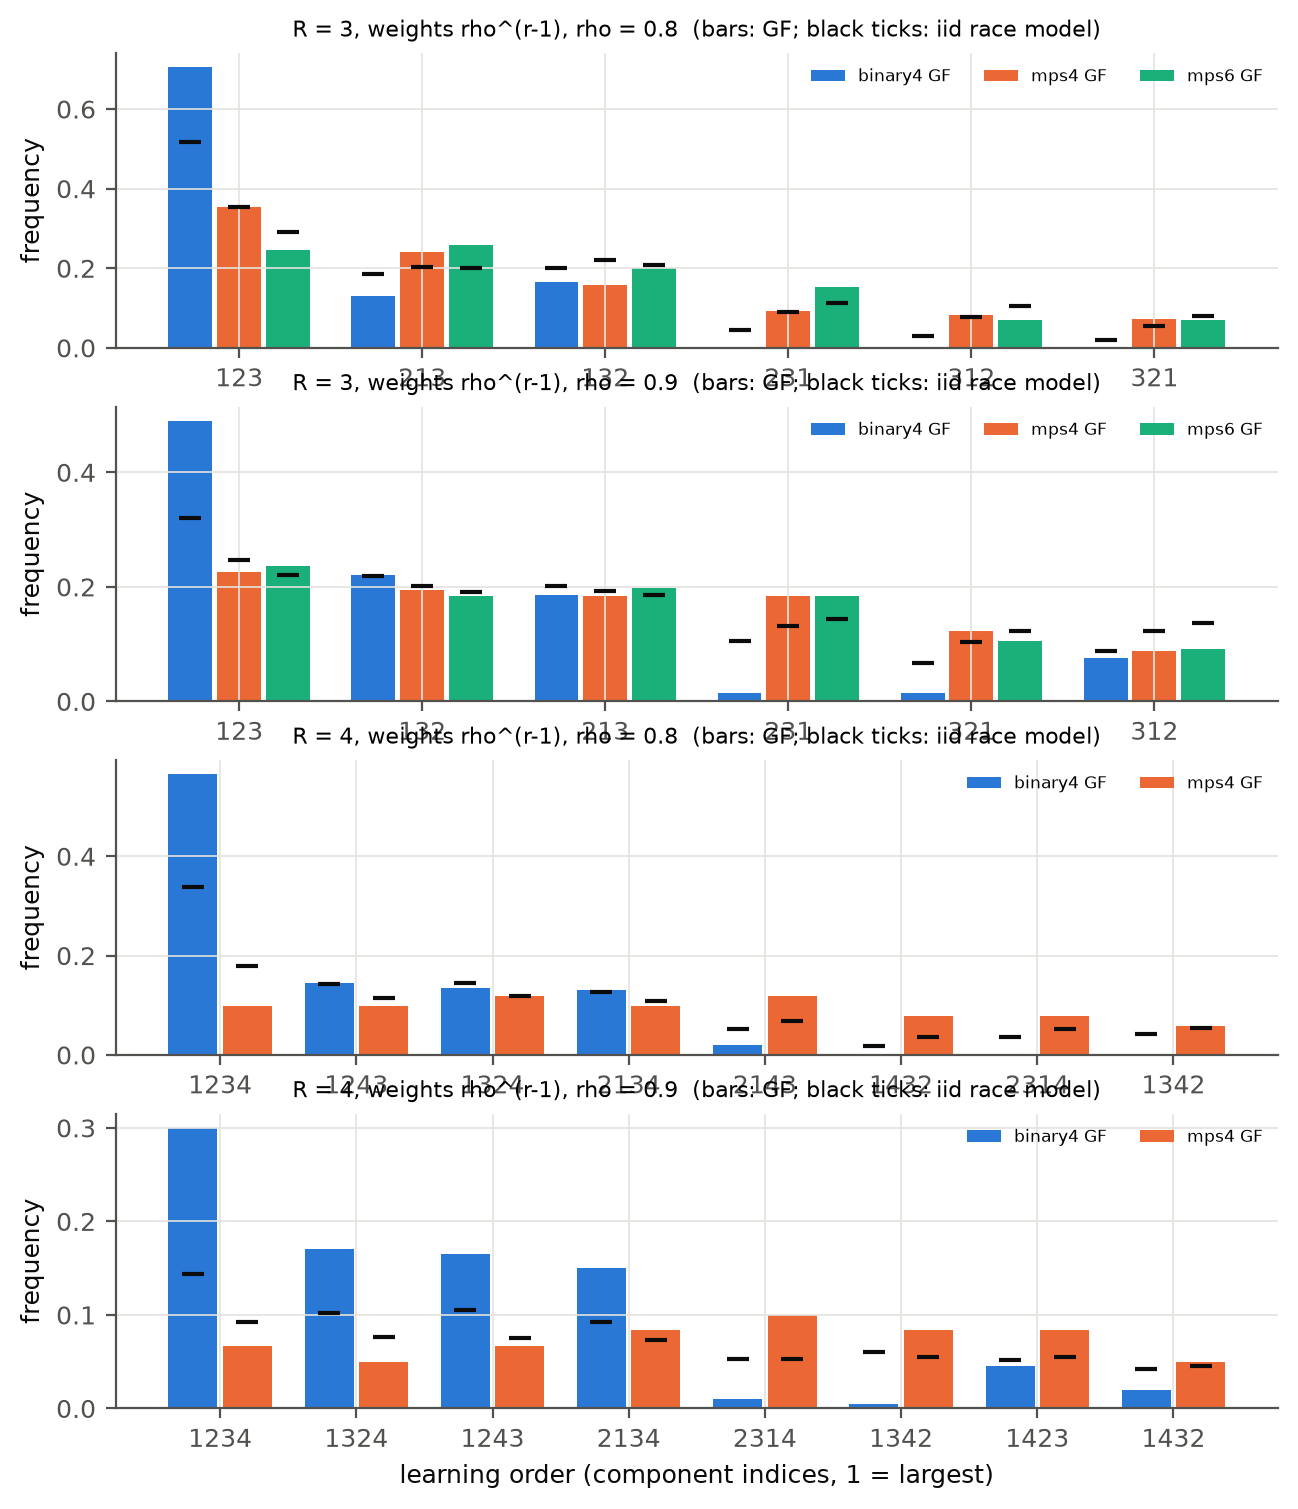
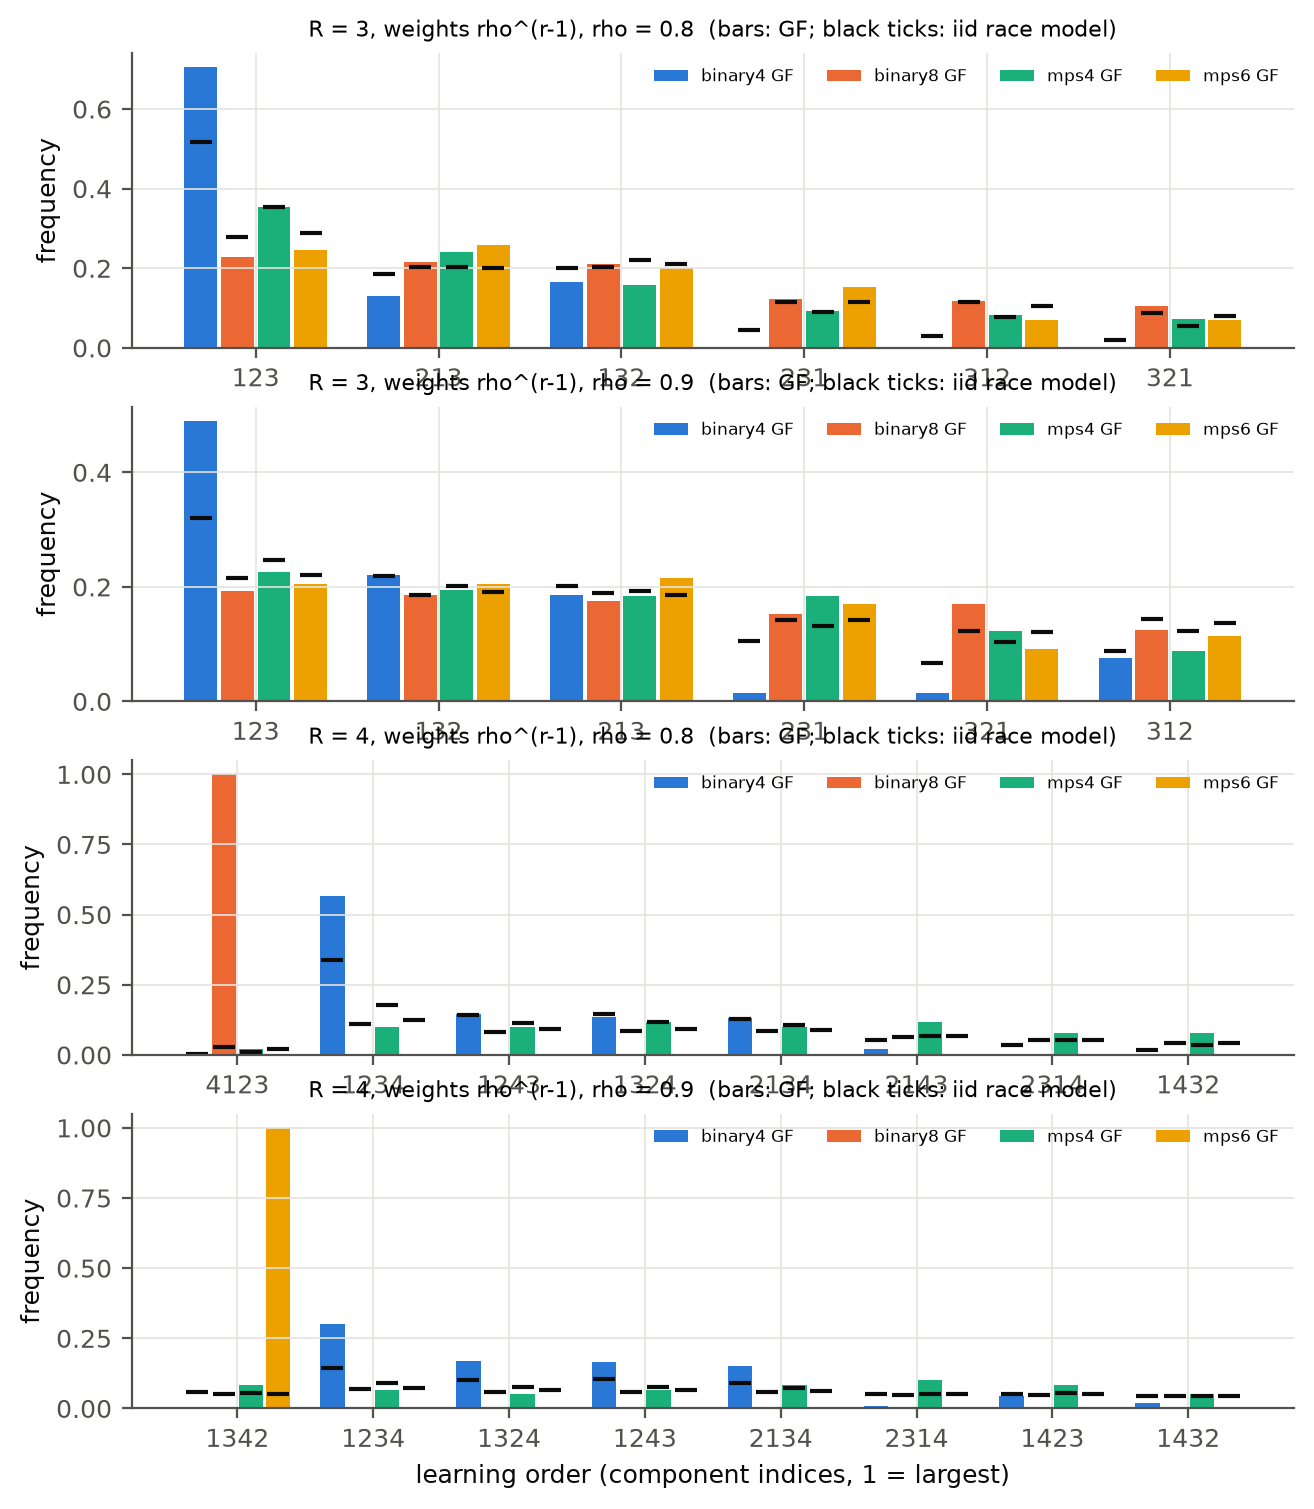
order: step 4 results (R = 3 order statistics vs iid race; R = 4 stalls)

diff --git a/notes/order.md b/notes/order.md
@@ -267,6 +267,53 @@ carry), 500 seeds per point (`sweep.py configs/chi_scan.yaml`, `analyze_chi.py`,
 - So the answer to "does larger chi restore greedy order?" is yes in the limit, as for over-parameterized
   CP (Ge et al. 2021), but slowly: the spread of log escape times shrinks only like chi^-1/2.
 
+### 7.6 Step 4: three and four components (complete)
+
+Odeco teachers with weights (1, rho, rho^2[, rho^3]), rho = 0.8, 0.9, d = 4, chi = 4 (standard caps:
+every bond has dimension 4), 200 seeds; sigma = 0.05 (binary4), 0.1 (MPS4), 0.2 (MPS6), 0.25 (binary8)
+because at smaller sigma the dormant components of K >= 5 trees fall below the float64 floor. GF with
+LSODA + exact Hessian (rtol 1e-9, atol 1e-14), exact event location for every first crossing a_r = 1/2,
+stopped at L < 1e-8 L(0), at t = 1e9, or when some overlap decays below 1e-25 ("stalled": its route has
+died; any later escape would be seeded by roundoff). Per seed also the LO blow-up time tau_r of every
+component. `multi.py configs/multi.yaml` (raw: multi2), `analyze_multi.py multi2`,
+`results/multi2_summary.csv`, `results/multi2_perms.csv`, `results/multi2_orders.png`. Runs with a
+stalled component or a dormant overlap below 1e-14 before its event are excluded from the order
+statistics and counted. Model = "iid race": each component's blow-up time an independent draw from the
+pooled tau's, order = ranking of tau_r / s_r (a Thurstone-type random-utility model).
+
+**R = 3** (n used / 200; P(greedy order) GF vs iid race model; mean Kendall tau with the greedy order GF
+vs model; per-seed agreement of the full GF order with the seed's own race order):
+
+| tree (m) | rho | n used | P(greedy order) | Kendall tau | race = GF order | P(first = 1 / 2 / 3) |
+|---|---|---|---|---|---|---|
+| binary4 (2) | 0.8 | 200 | 0.70 vs 0.52 | 0.80 +- 0.02 vs 0.60 | 0.64 | 0.87 / 0.13 / 0.00 |
+| binary4 (2) | 0.9 | 200 | 0.49 vs 0.32 | 0.58 +- 0.03 vs 0.33 | 0.53 | 0.71 / 0.20 / 0.09 |
+| mps4 (4) | 0.8 | 195 | 0.35 vs 0.35 | 0.36 +- 0.04 vs 0.39 | 0.86 | 0.51 / 0.33 / 0.15 |
+| mps4 (4) | 0.9 | 195 | 0.23 vs 0.25 | 0.14 +- 0.05 vs 0.19 | 0.89 | 0.42 / 0.37 / 0.21 |
+| mps6 (6) | 0.8 | 85 | 0.25 vs 0.29 | 0.25 +- 0.06 vs 0.27 | 0.82 | 0.45 / 0.41 / 0.14 |
+| mps6 (6) | 0.9 | 88 | 0.20 vs 0.22 | 0.16 +- 0.06 vs 0.13 | 0.77 | 0.41 / 0.39 / 0.20 |
+| binary8 (4) | 0.8 | 180 | 0.23 vs 0.28 | 0.19 +- 0.05 vs 0.25 | 0.72 | 0.44 / 0.34 / 0.22 |
+| binary8 (4) | 0.9 | 177 | 0.19 vs 0.22 | 0.05 +- 0.05 vs 0.12 | 0.70 | 0.38 / 0.33 / 0.29 |
+
+- **m >= 3: the full order is a random permutation favouring large components, close to the iid race
+  (Thurstone) model** [empirical]: P(greedy order) and Kendall tau with the greedy order are within ~1-2
+  SE of the model on MPS4, MPS6 and binary8; the seed's own LO race predicts the complete order in
+  70-89% of runs (the first event in ~100% on MPS). The deviations go in the direction expected from the
+  coupling after the first escape (later components are delayed by different amounts; on MPS4 the
+  second and third escapes come 10% and up to 2x later than their LO blow-up times).
+- **binary4 (m = 2)**: much more greedy than the race model (P(greedy order) 0.71 vs 0.52 at rho = 0.8),
+  consistent with the m = 2 picture; P(first = largest) = 0.87 / 0.71 at rho = 0.8 / 0.9 (sigma = 0.05).
+
+**R = 4 with chi = R = 4 (every bond must reach full rank): gradient flow mostly stalls** [empirical].
+Stalled runs: MPS4 145/200 (rho 0.8: 149, 0.9: 140), MPS6 ~195/200, binary8 ~170/185; binary4 0/200 (a
+DLN). In stalled runs one component's overlap decays exponentially after the others are learned (the
+conservation-law trap of `notes/theory_saddles.md` section 8); the same runs integrated with the library
+integrator to t = 1e9 without a stop (abandoned `multi` run) never learn that component either (stall
+classification identical on all 1679 overlapping runs). With R = 3 < chi stalls are rare on MPS4 (2.5%)
+and binary8 (1-1.5%) but frequent on MPS6 at sigma = 0.2 (~45%). This is outside Q4 (it concerns whether
+later components are learned at all) and is passed on to `s2s-core` / `locality`: a gauge-balanced init,
+which theory_saddles reports removes the trap on HT4, was not tested here.
+
 ## 8. Status of H1 and H1b
 
 **H1 ("the first escape direction is decided by the basin of the init, so the order is random; P(largest
